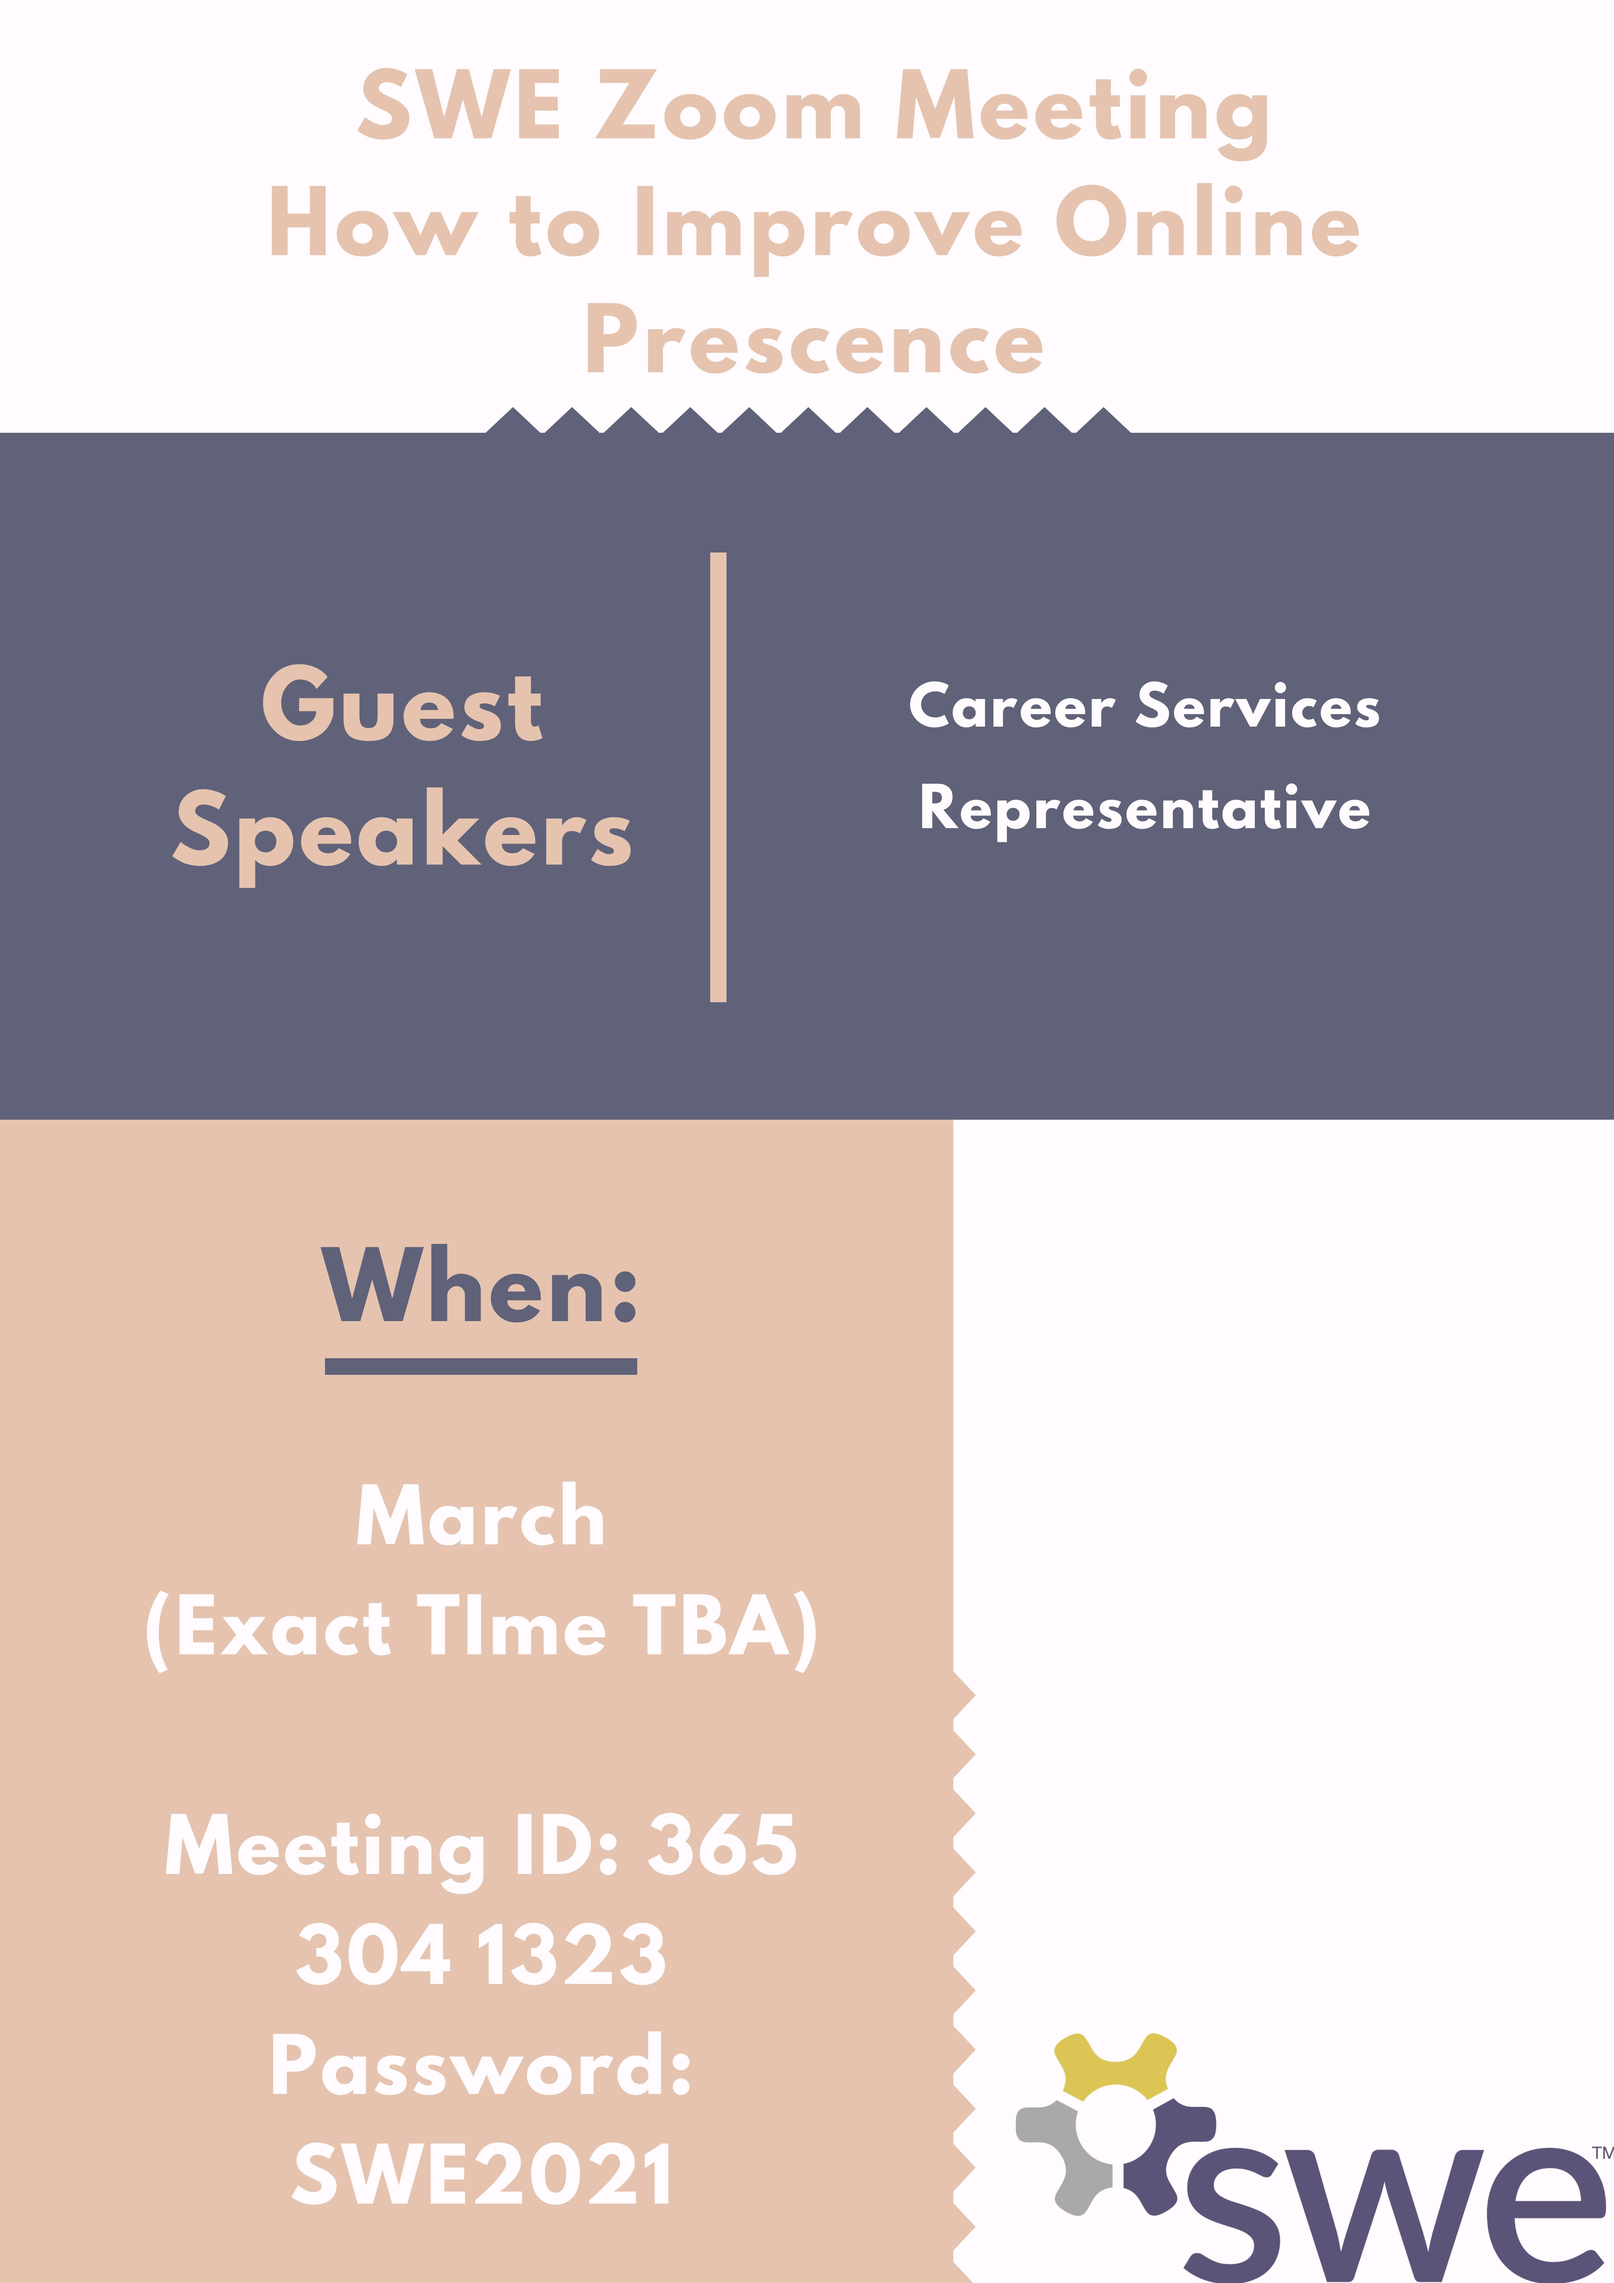
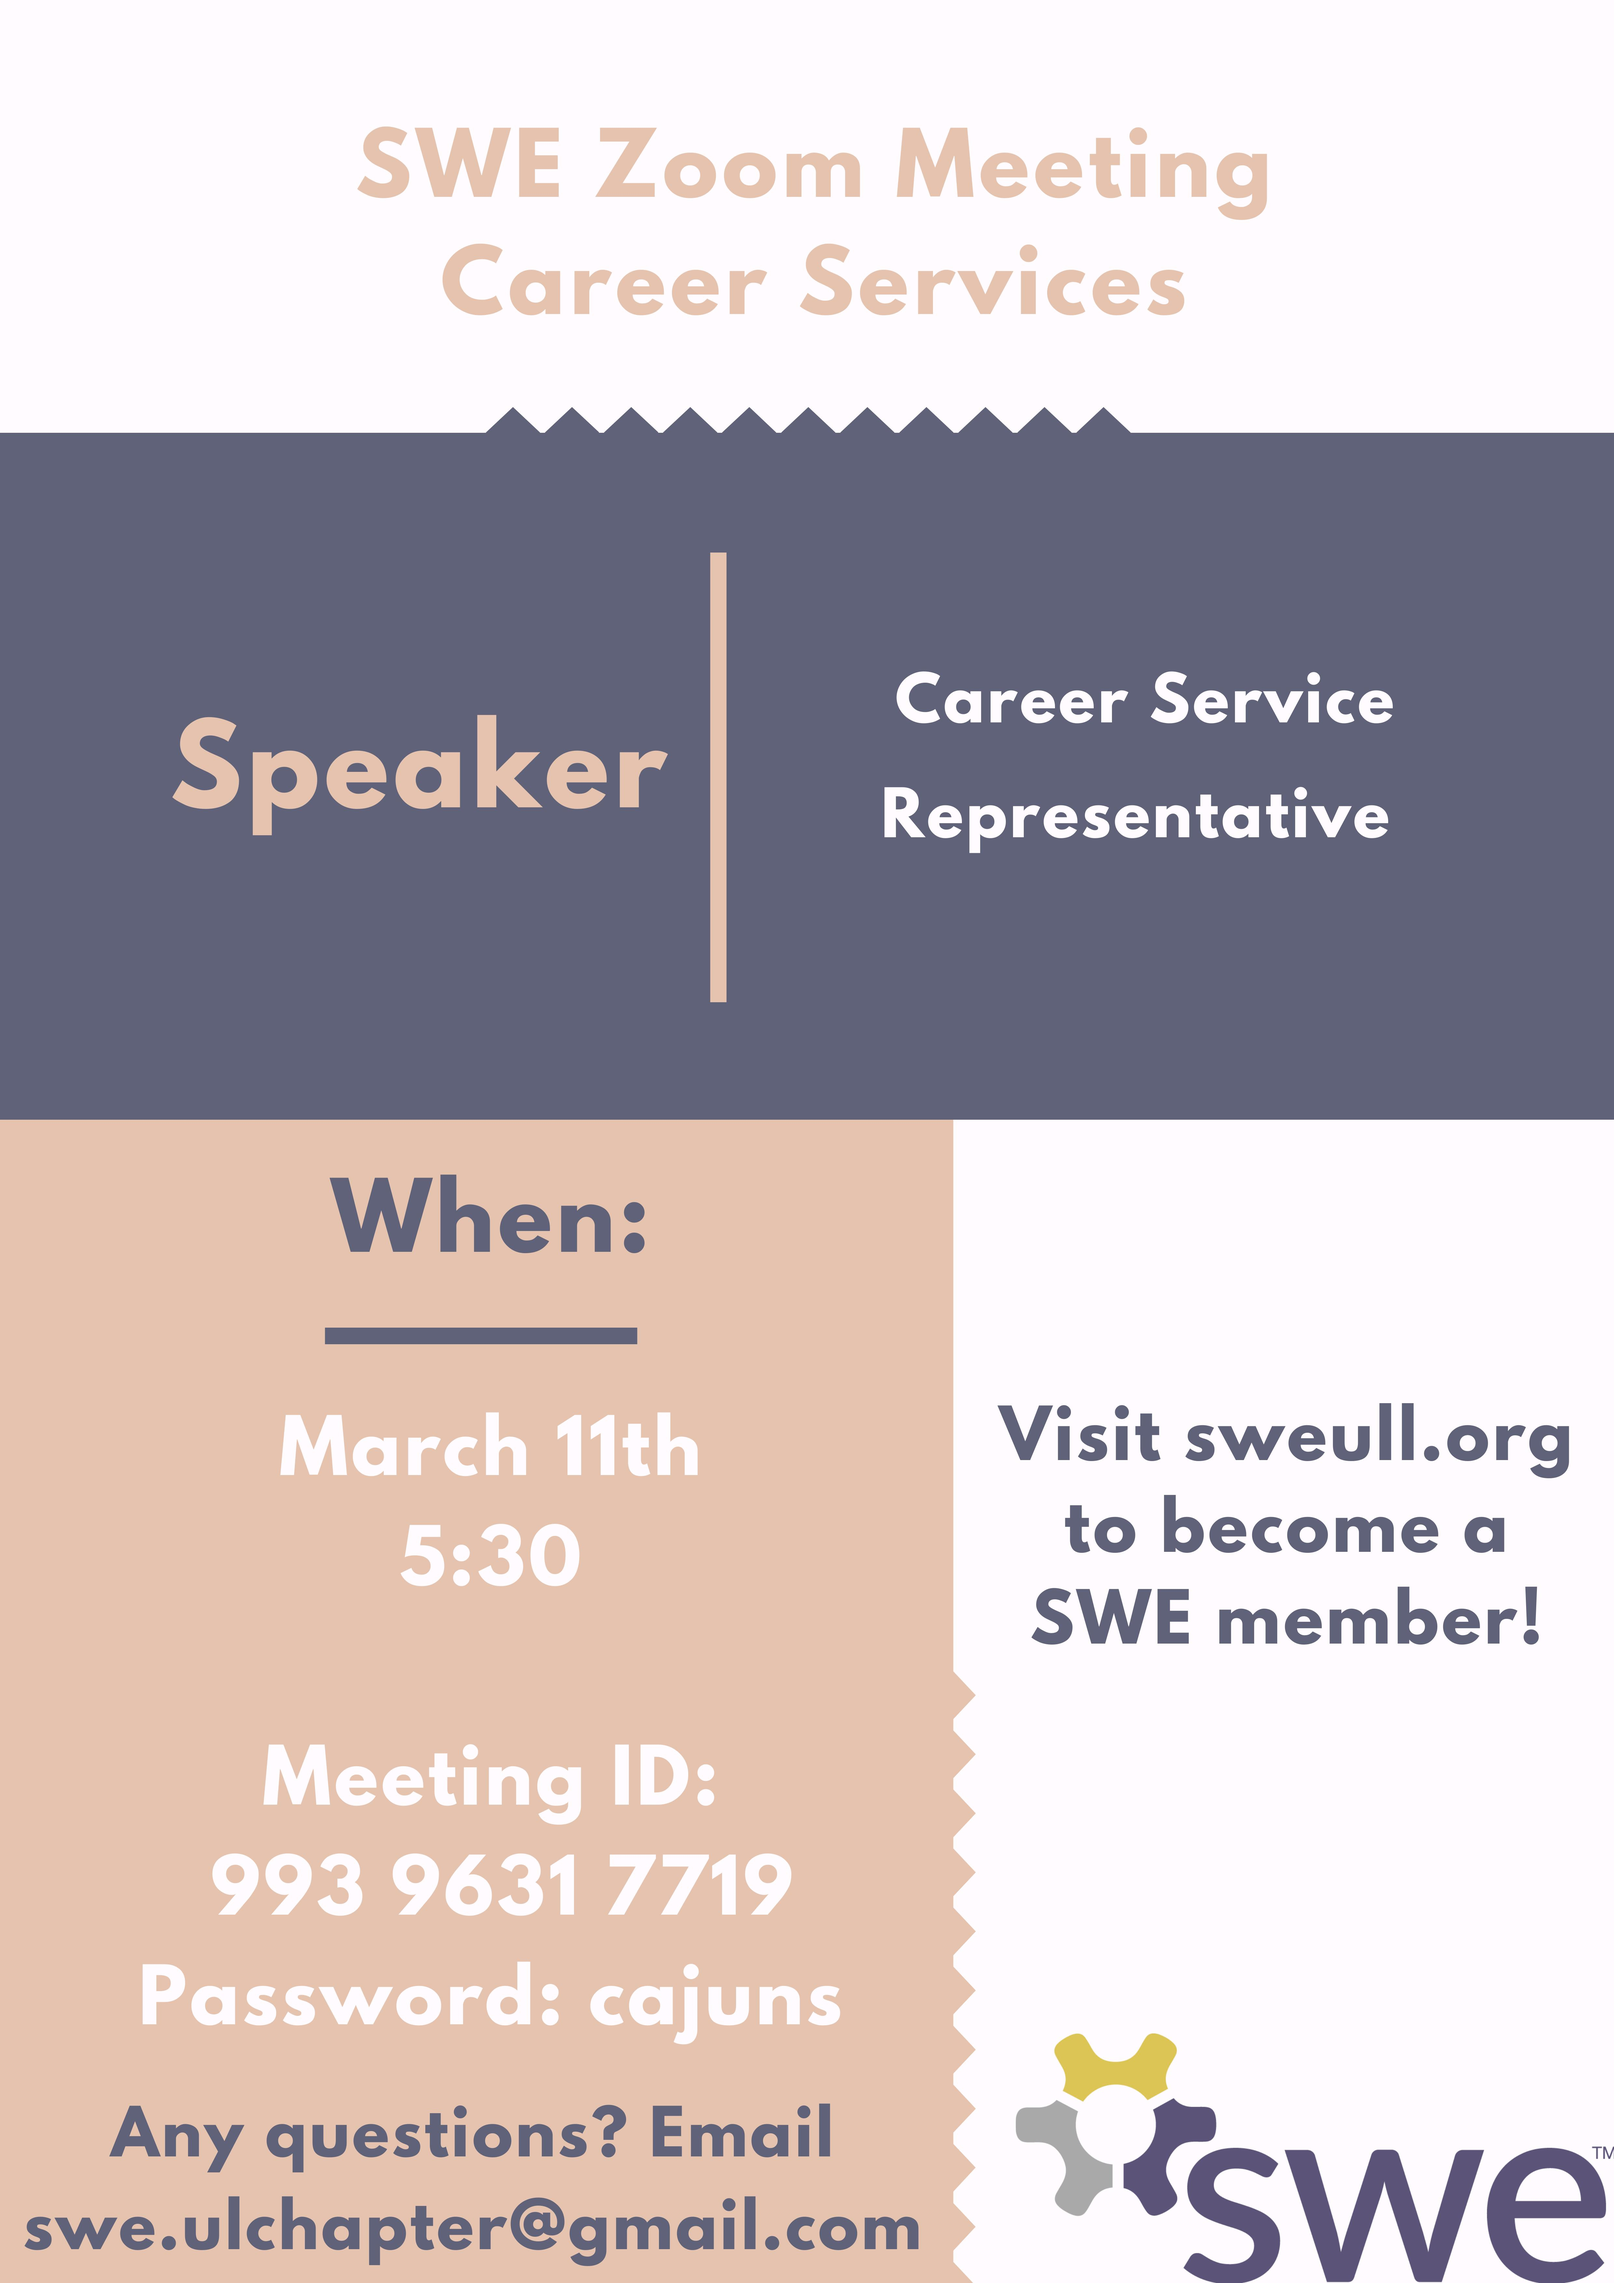
add march poster and yt vids

diff --git a/swesite/templates/events/events.html b/swesite/templates/events/events.html
@@ -39,7 +39,7 @@
 
 
 {% block secondBlock %}
-{#    {% include 'events/events_table.html' %}#}
+    {#    {% include 'events/events_table.html' %}#}
 {% endblock %}
 
 {% block thirdBlock %}
@@ -64,6 +64,13 @@
                         <span style="font-weight: 900; color: #6b0392">here</span>
                     </a>
                     </h6>
+                {% endif %}
+
+                {% if data.yt_iframe_url %}
+                    <iframe width="560" height="315" src="{{ data.yt_iframe_url }}"
+                            frameborder="0"
+                            allow="accelerometer; autoplay; clipboard-write; encrypted-media; gyroscope; picture-in-picture"
+                            allowfullscreen></iframe>
                 {% endif %}
 
 

diff --git a/swesite/swesite/contexts/swe_events_context.py b/swesite/swesite/contexts/swe_events_context.py
@@ -19,7 +19,7 @@ current_events = {
 
     '3rd_meeting': {
         'display_title': 'Online Profiles: How to Improve Your Online Prescience',
-        'display_date': 'March 2021 (Exact Date TBA)',
+        'display_date': 'March 11, 2021',
         'display_description': 'Tips from career services to improve your Handshake/LinkedIn profile.',
         'img_paths': [
             'events/img/carousel/spring21/3rd_meeting.jpg',
@@ -34,6 +34,7 @@ current_events = {
         'img_paths': [
             'events/img/carousel/spring21/2nd_meeting.jpg',
         ],
+        'yt_iframe_url': 'https://www.youtube-nocookie.com/embed/sExbykfAGu4'
 
     },
 
@@ -44,6 +45,7 @@ current_events = {
         'img_paths': [
             'events/img/carousel/spring21/1st_meeting.jpg',
         ],
+        'yt_iframe_url': 'https://www.youtube-nocookie.com/embed/aVrPKtRdGNk'
 
     },
 }
